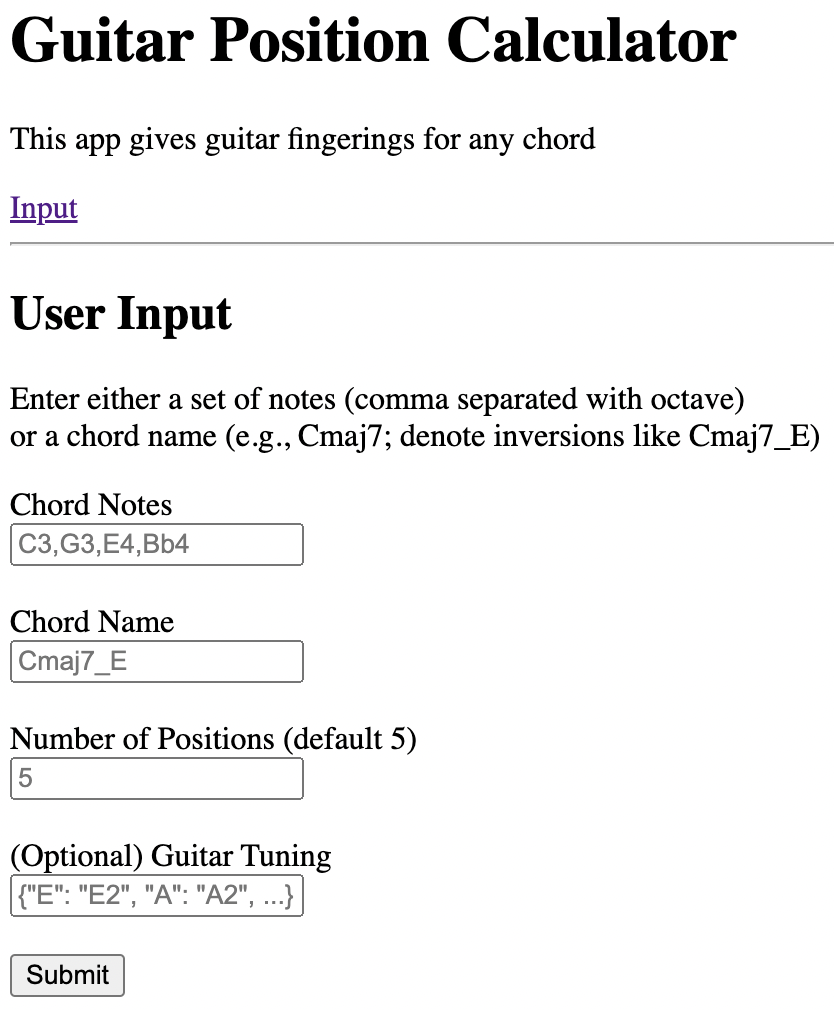
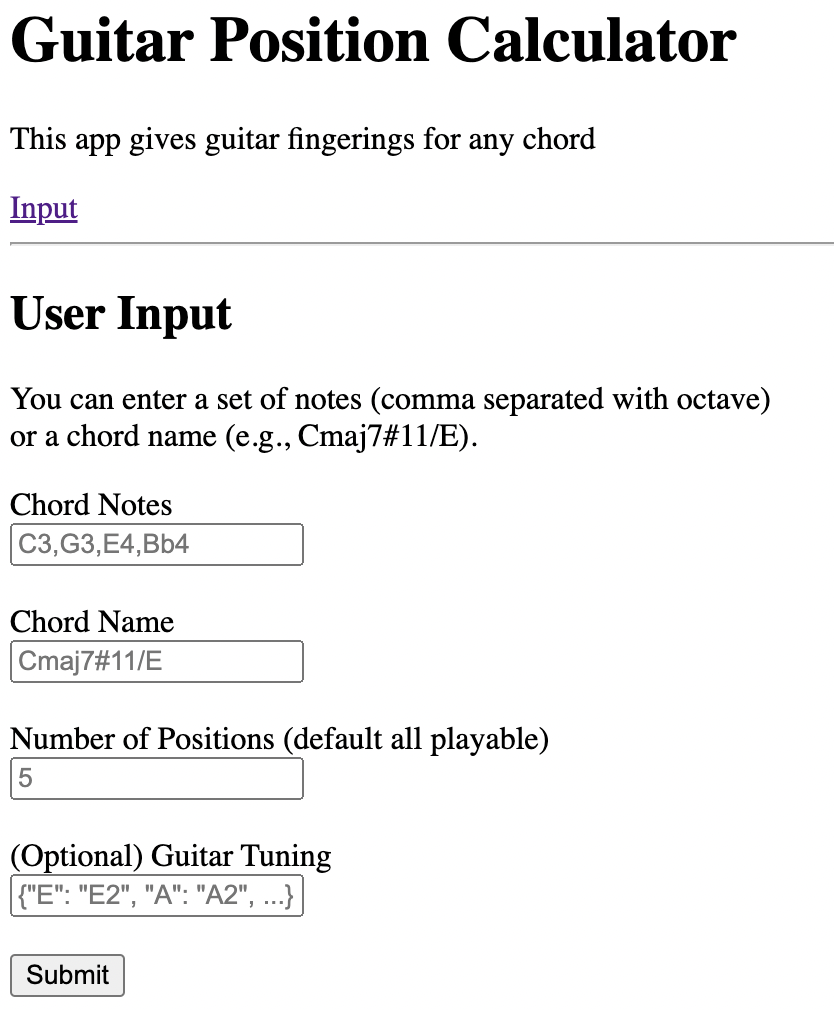
update readme

Changed region(s): [[0.0, 0.3683, 0.9976, 0.4604], [0.4676, 0.7059, 0.6547, 0.7673], [0.0935, 0.6446, 0.1871, 0.6752]]

diff --git a/README.md b/README.md
@@ -21,31 +21,27 @@ There is a `demo.py` script that will generate guitar chord positions. See `--he
 In `notes` mode, you must specify the notes (including octave) that you want as a comma-separated string:
 
 ```commandline
-$ python demo.py --notes C3,G3,E4,Bb4 --top_n 3
+$ python demo.py --notes C3,G3,E4,Bb4 -n 3
 You input the chord: C3,G3,E4,Bb4
-Here are the top 3 guitar positions (out of 54 possible)
-for a guitar tuned to standard
+There are 9 playable guitar positions (out of 54 possible) for a guitar tuned to standard.
+Here are the top 3:
 {'E': 8, 'A': 10, 'G': 9, 'B': 11}
 {'E': 8, 'A': 10, 'B': 11, 'e': 0}
-{'E': 8, 'D': 5, 'B': 5, 'e': 6}
-
+{'E': 8, 'G': 0, 'B': 11, 'e': 0}
 ```
 
 ### `name` Mode
 
-In `name` mode, you can just pass a chord name (e.g., `Cmaj7/E`)
+In `name` mode, you can just pass a chord name (e.g., `Cmaj7#11/E`)
 
 ```commandline
 $ python demo.py --name Cmaj7/E   
-You input the chord: Cmaj7/E
-Here are the top 5 guitar positions (out of 1604 possible)
-for a guitar tuned to standard
-{'E': 0, 'A': 3, 'G': 0, 'B': 0}
-{'E': 0, 'A': 10, 'D': 10, 'B': 0}
-{'E': 0, 'D': 5, 'G': 5, 'B': 0}
-{'E': 0, 'A': 15, 'G': 0, 'B': 0}
-{'E': 0, 'D': 10, 'G': 0, 'B': 0}
-
+You input the chord: Cmaj7#11/E
+There are 48 playable guitar positions (out of 986 possible) for a guitar tuned to standard.
+Here are the top 3:
+{'E': 0, 'A': 10, 'D': 10, 'G': 11, 'B': 0}
+{'E': 0, 'A': 3, 'G': 0, 'B': 0, 'e': 2}
+{'E': 0, 'A': 2, 'G': 0, 'B': 1, 'e': 2}
 ```
 
 ### Other features
@@ -55,8 +51,8 @@ You can use the `--graphical` (`-g`) flag for ASCII art:
 ```commandline
 $ python demo.py --notes C3,G3,E4,Bb4 --top_n 3 --graphical
 You input the chord: C3,G3,E4,Bb4
-Here are the top 3 guitar positions (out of 54 possible)
-for a guitar tuned to standard
+There are 9 playable guitar positions (out of 54 possible) for a guitar tuned to standard.
+Here are the top 3:
 
 e x|---|---|---|---|
 B  |---|---|---|-@-|
@@ -74,14 +70,13 @@ A  |---|---|-@-|---|
 E  |-@-|---|---|---|
   7fr
 
-e  |---|-@-|---|---|
-B  |-@-|---|---|---|
-G x|---|---|---|---|
-D  |-@-|---|---|---|
+e o|---|---|---|---|
+B  |---|---|---|-@-|
+G o|---|---|---|---|
+D x|---|---|---|---|
 A x|---|---|---|---|
-E  |---|---|---|-@-|
-  4fr
-
+E  |-@-|---|---|---|
+  7fr
 ```
 
 You can specify different tunings, numbers of frets, and a capo location:
@@ -93,8 +88,8 @@ $ python demo.py -g \
     --tuning '{"D": "D2", "A": "A2", "d": "D3", "F#": "F#3", "a": "A3", "dd": "D4"}' \
     --capo 1
 You input the chord: C3,G3,E4,Bb4
-Here are the top 2 guitar positions (out of 54 possible)
-for a guitar tuned to custom ({'D': Eb2, 'A': Bb2, 'd': Eb3, 'F#': G3, 'a': Bb3, 'dd': Eb4}):
+There are 6 playable guitar positions (out of 54 possible) for a guitar tuned to custom ({'D': Eb2, 'A': Bb2, 'd': Eb3, 'F#': G3, 'a': Bb3, 'dd': Eb4}):.
+Here are the top 2:
 
 dd  |-@-|---|---|
  a x|---|---|---|
@@ -104,15 +99,13 @@ F#  |---|---|-@-|
  D  |---|---|-@-|
    6fr
 
-dd x|---|---|---|---|
- a  |---|---|---|-@-|
-F#  |-@-|---|---|---|
+dd  |---|-@-|---|---|
+ a  |-@-|---|---|---|
+F# x|---|---|---|---|
  d x|---|---|---|---|
- A  |-@-|---|---|---|
- D  |-@-|---|---|---|
-   8fr
-
-
+ A  |---|---|---|-@-|
+ D  |---|---|---|-@-|
+   5fr
 ```
 
 ## Web App
@@ -134,7 +127,7 @@ conda activate music
 
 ## TODO
 
-- [ ] Add upper extensions
+- [x] Add upper extensions
 - [ ] Add playability heuristics
 - [ ] Better ranking
 - [ ] Show voicings on staff
